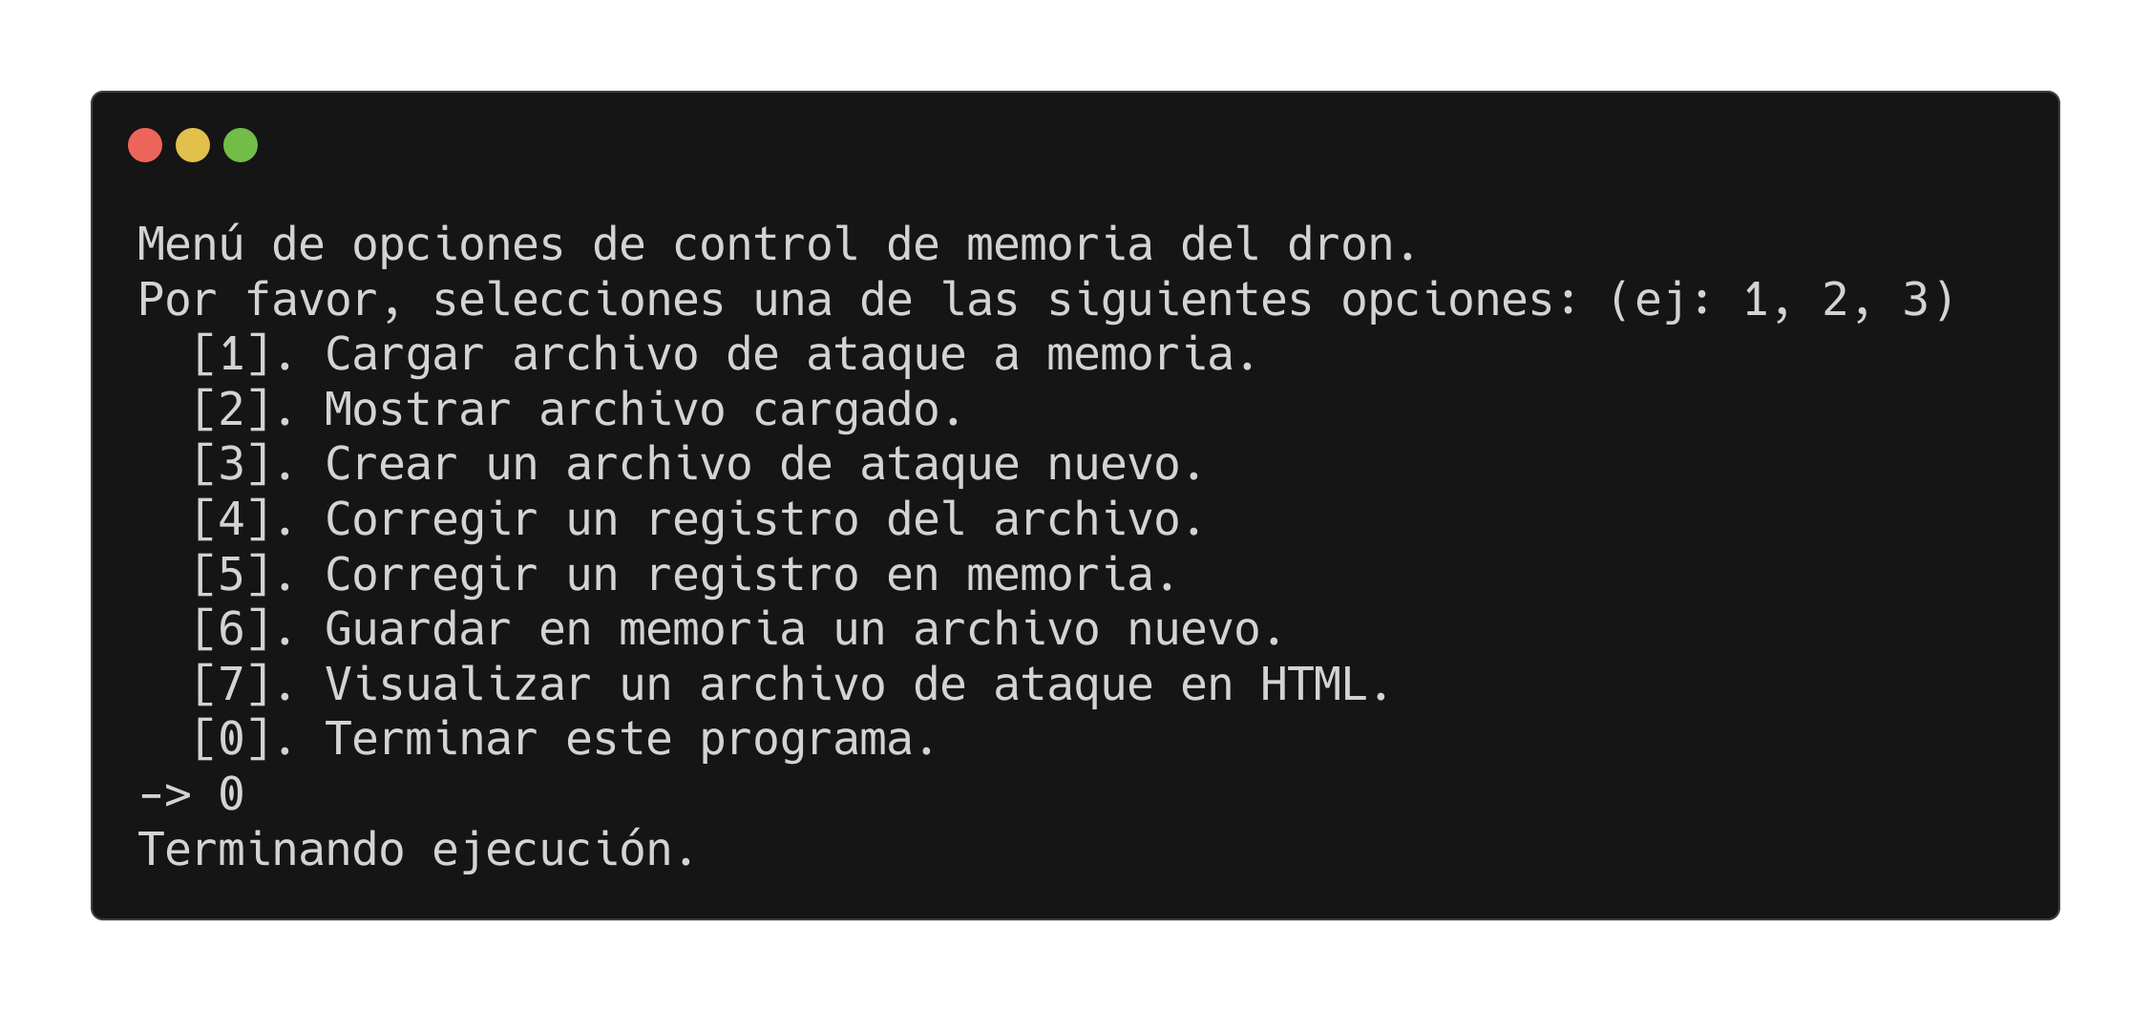
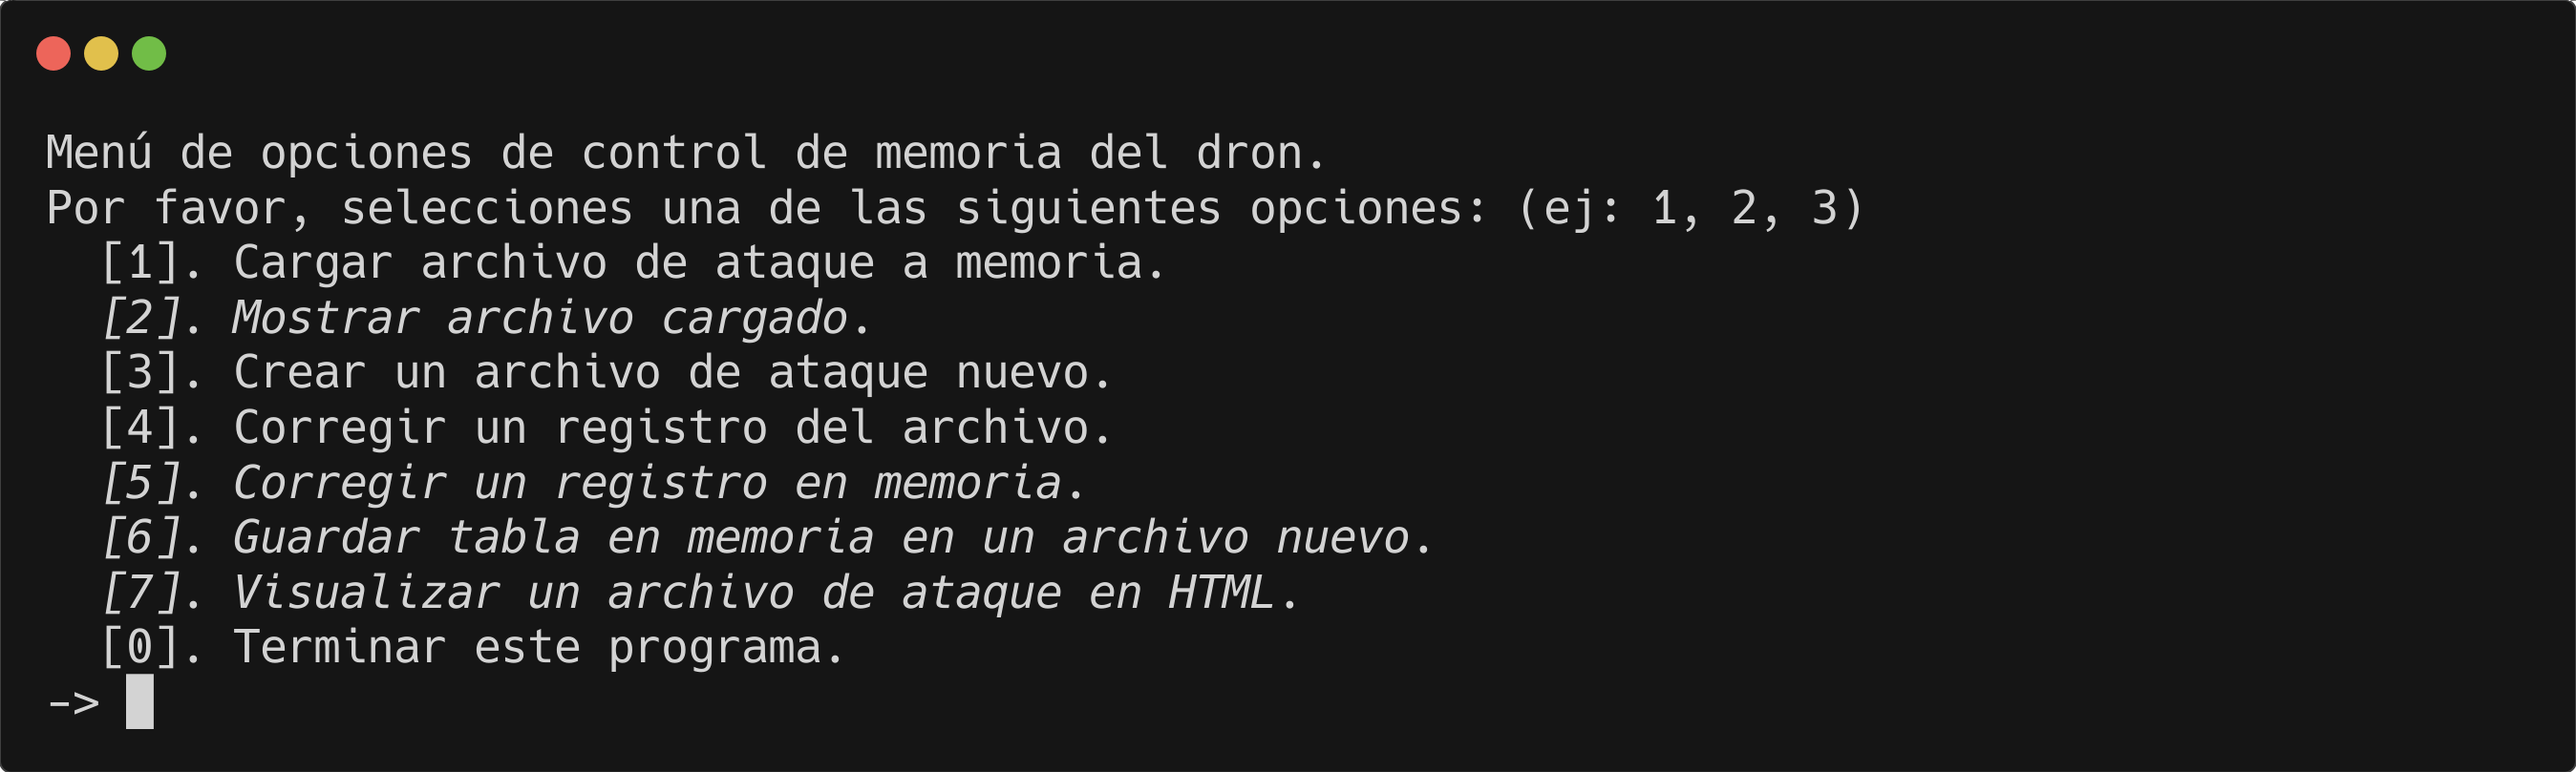
Pull imagenes de ejemplo

diff --git a/src/main.cpp b/src/main.cpp
@@ -13,7 +13,6 @@
 #define WARN "\033[1mAlerta\033[0m: " // Esto solo se usa una sola vez.
 using std::cin, std::cout, std::endl;
 
-
 // Comprueba que se se haya ingresado un valor válido. En caso de que
 // "cin" devuelva error, limpia el estado de error y devuelve "true".
 bool cinInvalido() {
@@ -873,12 +872,10 @@ bool modificarRegistro(Orden tabla[TABLA_TAMANO_X][TABLA_TAMANO_Y]) {
 	do {
 		while (true) { // Qué registro.
 			cout << "¿Qué registro desea modificar? (X;Y)" << endl;
-			cout << "X:" << endl;
-			cout << CURSOR;
+			cout << CURSOR << "X: ";
 			cin >> respuesta_x;
 			if (cinInvalido()) continue;
-			cout << "Y:" << endl;
-			cout << CURSOR;
+			cout << CURSOR << "Y: ";
 			cin >> respuesta_y;
 			if (cinInvalido()) continue;
 			respuesta_x--; // (Se interpreta que la tabla comienza en 1x1 y no en 0x0,
@@ -1245,8 +1242,8 @@ void crearHTML(
 bool comprobarTablaCargada(bool flag) {
 	if (!flag) {
 		cout << WARN; // MSG_WARN
-		cout << "No hay una tabla de órdenes cargada. ";
-		cout << "Cargue o cree una tabla primero para poder visualizarla." << endl;
+		cout << "No hay una tabla de órdenes cargada." << endl;
+		cout << "Cargue primero una tabla de órdenes a la memoria del programa para acceder a esta función." << endl;
 		return false;
 	}
 
@@ -1267,7 +1264,7 @@ void bucleMenu(
 		// la opción ingresada es incorrecta, pero sí si se
 		// acaba de salir de una opción real luego de utilizarla.
 		if (eleccion < 8) {
-			cout << endl;
+			//cout << endl;
 			cout << "Menú de opciones de control de memoria del dron." << endl;
 			if (flag_tabla_cargada) {
 				cout << "Archivo cargado: ";

diff --git a/README.md b/README.md
@@ -68,9 +68,19 @@ Uno por uno, el programa solicitará los registros necesarios para poblar las ce
 > [!IMPORTANT]
 > El programa recorre la tabla de izquierda a derecha, de arriba a abajo, desde la celda 1×1 hasta la 200×200.
 
+![Creando tabla](img/img_creando_tabla.png)
+
+> [!TIP]
+> Cuando el programa solicite un valor de "Sí" o "No", `[s/n]`, al responder en blanco presionando la tecla Enter el programa asumirá el valor predeterminado, determinado por la mayúscula en la solicitud de respuesta.
+>
+> |         | Responde `s`    | Responde `n`    | Responde ` `    |
+> | ------- | --------------- | --------------- | --------------- |
+> | `[s/N]` | Respuesta = `s` | Respuesta = `n` | Respuesta = `n` |
+> | `[S/n]` | Respuesta = `s` | Respuesta = `n` | Respuesta = `s` |
+
 Una vez asignados los valores correspondientes de cada celda de la tabla, el programa procederá a realizar una [validación de los datos](#condiciones-de-validación-de-una-tabla-de-órdenes) ingresados. En caso de que la tabla sea inválida, los cambios realizados se desecharan, y el programa volverá a solicitar los valores de la tabla registro por registro.
 
-![Error no tabla en memoria](img/img_err_tabla_invalida.png)
+![Error tabla creada inválida](img/img_err_tabla_invalida.png)
 
 El programa solicitará la dirección donde guardar el archivo a crear. Si el archivo ya existe, el programa indicará esto y solicitará como continuar. El usuario podrá elegir si sobreescribir el archivo o elegir otra dirección.
 
@@ -190,10 +200,6 @@ Se puede acceder a este archivo HTML con cualquier navegador moderno.
 
 ![Página HTML](img/img_html.png)
 
-## Desarrollo y funciones
-
-…
-
 ## Condiciones de validación de una tabla de órdenes
 
 La lista de condiciones que una tabla debe cumplir para ser reconocida como válida son las siguientes:
@@ -209,6 +215,10 @@ La lista de condiciones que una tabla debe cumplir para ser reconocida como vál
 * Tener no más de 1 celda de granada nº1 y 1 de granada nº2.
 
 En caso de no cumplir tan solo una de estas condiciones, el programa tachará de inválida la tabla, resultando en un error.
+
+## Desarrollo del programa
+
+…
 
 ## Uso de Inteligencia Artificial
 
